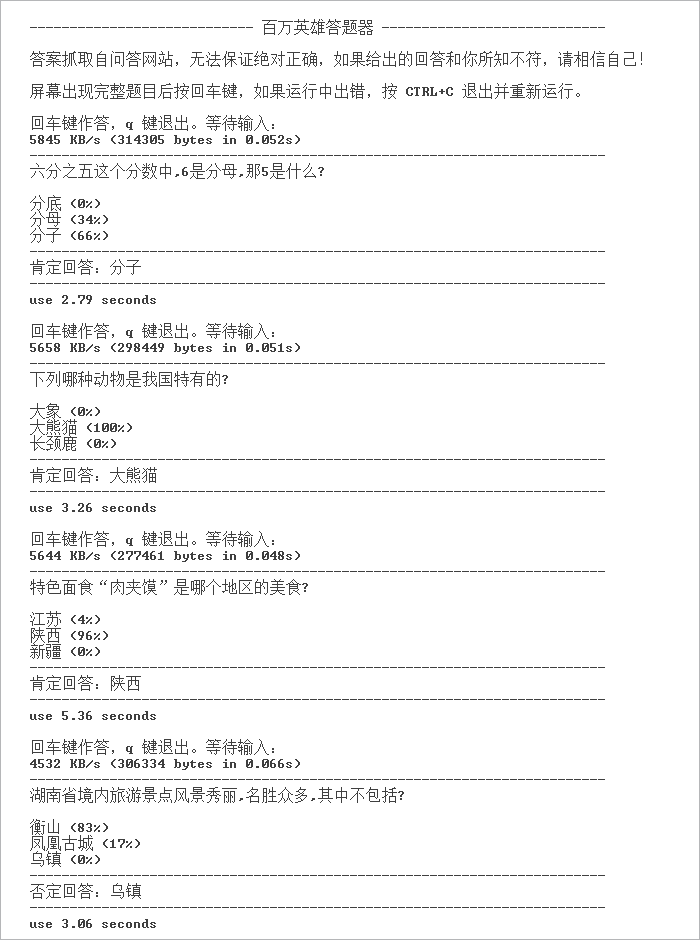
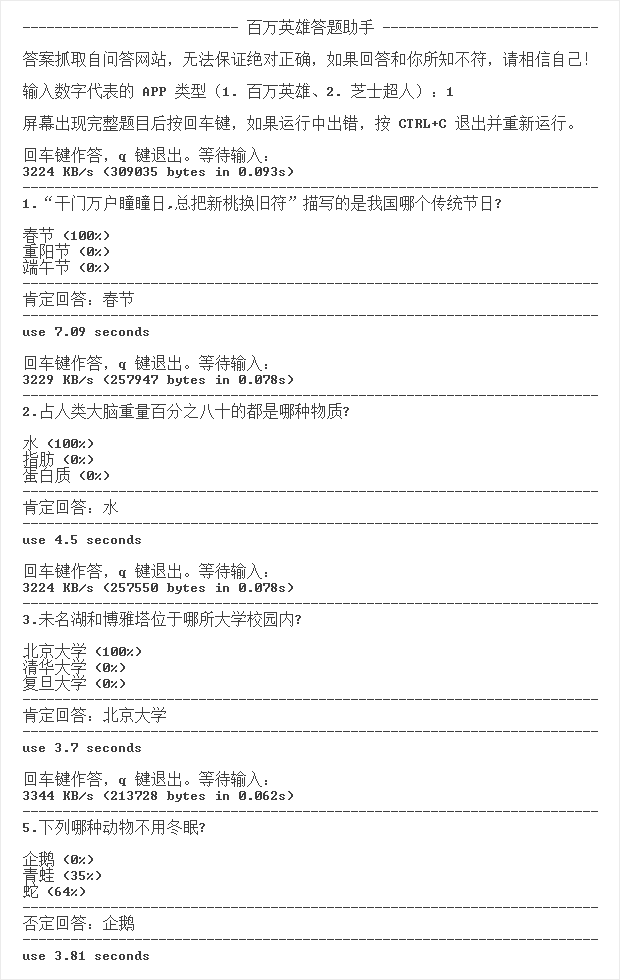
20180115 - 优化依赖包文件

diff --git a/main.py b/main.py
@@ -67,7 +67,7 @@ def main(enter, app):
     print("use {0} seconds".format(round(time_end - time_start, 2)))
 
 if __name__ == "__main__":
-    print("\n" + "-" * 29 + " 派桑答题助手 " + "-" * 29)
+    print("\n" + "-" * 27 + " 百万英雄答题助手 " + "-" * 27)
     print("\n答案抓取自问答网站，无法保证绝对正确，如果回答和你所知不符，请相信自己！")
     app = input("\n输入数字代表的 APP 类型（1. 百万英雄、2. 芝士超人）：")
     print("\n屏幕出现完整题目后按回车键，如果运行中出错，按 CTRL+C 退出并重新运行。")

diff --git a/README.md b/README.md
@@ -1,4 +1,4 @@
-# 派桑答题助手
+# 百万英雄答题助手
 使用 `Python` 开发的答题助手，目前适配百万英雄、芝士超人，支持 Android 手机或电脑模拟器。
 
 ## 运行效果截图
@@ -19,7 +19,7 @@
 3. 开启开发者选项，打开 USB 调试，小米手机一并打开 USB 调试（安全设置）
 4. 使用数据线连接手机，等待系统自动安装驱动完成
 ### 下载程序
-5. 下载[派桑答题助手压缩包](https://github.com/iflycn/hero/archive/master.zip)，解压到硬盘目录，例如 `D:\hero-master`
+5. 下载[百万英雄答题助手压缩包](https://github.com/iflycn/hero/archive/master.zip)，解压到硬盘目录，例如 `D:\hero-master`
 6. 修改文件 `mian.py` 中的 `APP_ID`、`API_KEY`、`SECRET_KEY` 为你自己的，申请地址：[百度 AI 开放平台](http://ai.baidu.com/tech/ocr/general)
 ### 安装 Python
 7. 从 [Python 官网](https://www.python.org/downloads)下载安装 `python3.6.4`
